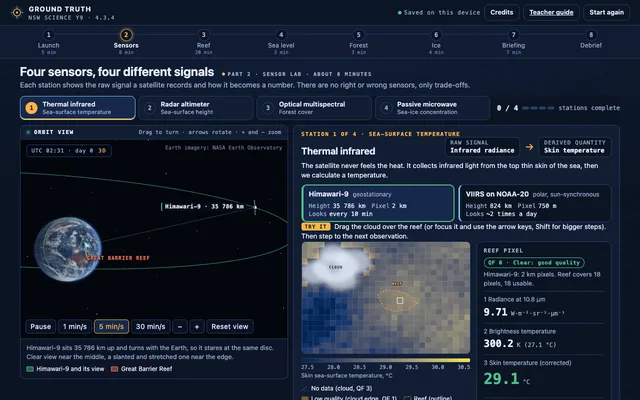
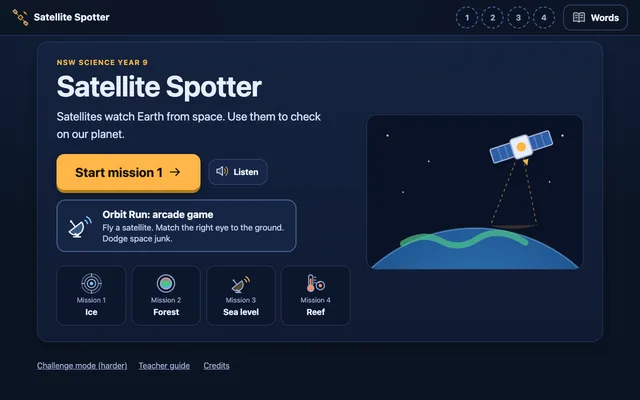
Ground Truth card: Satellite Spotter, Orbit Run and Challenge modes

diff --git a/data/sites.js b/data/sites.js
@@ -2168,26 +2168,26 @@ window.SITES = [
       "Environmental sustainability"
     ],
     "kind": "simulator",
-    "tagline": "How satellites measure a warming planet, and how far you can trust the data.",
-    "description": "A one-period Year 9 lesson-game on real satellite data. Four sensor stations on a 3D globe (thermal infrared, radar altimeter, optical, passive microwave) show the raw signal behind each number. Students then predict which part of the Great Barrier Reef bleached in 2024, spend one survey flight, and let the aerial survey overturn them. Trap cases on sea level, forest loss and sea ice end on the long record, and a Minister briefing scores claim strength, evidence and limitations.",
+    "tagline": "Use real satellite pictures to check on the ice, forests, sea and reef, then fly Orbit Run.",
+    "description": "A Year 9 lesson on how satellites collect climate data. Satellite Spotter (the default, built for students who find reading hard) runs four short missions on ice, forest, sea level and the reef: pick the right satellite eye, watch it scan, slide between real before and after satellite images, and build one sentence about what it shows, ending with a printable report card. Orbit Run is an optional arcade game where you match the right sensor to the ground below while dodging space junk, clouds and night. Challenge mode keeps the harder evidence-strength lesson (reef investigation, trap cases, Minister briefing) for strong students.",
     "outcomes": [
       "Y9 Environmental sustainability 4.3.4"
     ],
     "features": [
-      "3D globe",
-      "real data",
+      "3 modes",
+      "arcade game",
+      "real satellite images",
+      "read-aloud",
       "teacher page",
-      "autosave",
-      "printable summary",
-      "keyboard accessible"
+      "printable report card"
     ],
     "teacher_url": "https://irvincisneros-png.github.io/ground-truth/teacher.html",
     "live_ok": true,
     "last_push": "2026-11-24",
-    "stack": "Vite + TypeScript + Three.js, Vitest (157 tests), GitHub Actions deploy",
+    "stack": "Vite + TypeScript + Three.js + Canvas 2D, Vitest (215 tests), GitHub Actions deploy",
     "maker_status": "needs-polish",
     "public_badge": "beta",
-    "coverage": "4.3.4 complete: sensor lab, reef investigation, three transfer cases, briefing, debrief",
+    "coverage": "4.3.4 complete in three modes: Satellite Spotter (default), Orbit Run arcade, Challenge",
     "issues": [
       "First Nations content is draft and hidden (?draft) pending review with the school's Aboriginal education contact",
       "NSIDC Sea Ice Index has no formal licence (citation only)",
